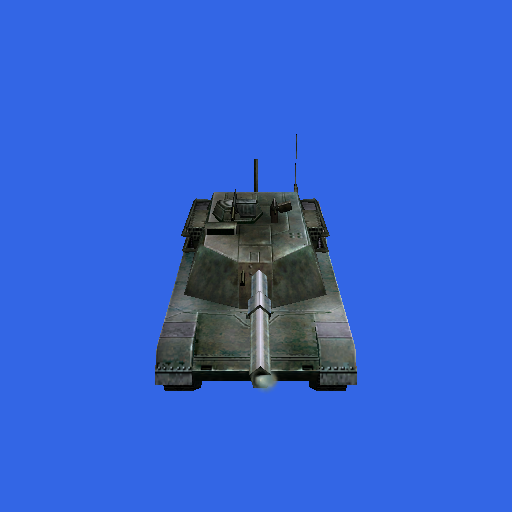
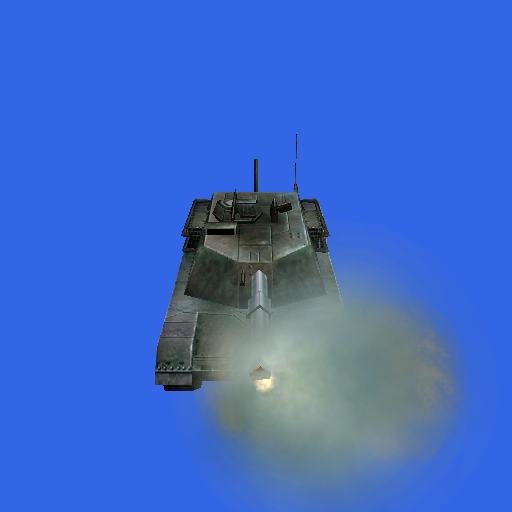
fix: apply tank ForceScale in muzzle particle proof

Changed region(s): [[0.375, 0.5, 0.9375, 1.0]]

diff --git a/src/Panopticon.Tools.TestHarness/Ee2ParticleProofScenario.cs b/src/Panopticon.Tools.TestHarness/Ee2ParticleProofScenario.cs
@@ -47,6 +47,9 @@ internal static class Ee2ParticleProofScenario
     /// <summary>The muzzle proof model: a cooked unit model with a Muzzle node.</summary>
     public const string MuzzleModelKey = "lhm13_mainbattletank";
 
+    /// <summary>HeavyMounted1_13.ForceScale from db/Units/heavy_mounted1.ddf.</summary>
+    public const float MuzzleModelScale = 0.09f;
+
     /// <summary>Presentation-only yaw, matching the other EE2 model proofs.</summary>
     public const float CaptureYawRadians = -MathF.PI / 3f;
 
@@ -109,10 +112,16 @@ internal static class Ee2ParticleProofScenario
         return ParticleSystemUtility.ComputeDeterministicSeed("c4h-particle-proof:" + effectName, 0);
     }
 
-    internal static Matrix4x4 RemoveDuplicateAttachmentScale(Matrix4x4 emitterTransform, float worldScale)
+    internal static Matrix4x4 RemoveDuplicateAttachmentScale(Matrix4x4 emitterTransform, float attachmentScale)
     {
-        // Materialization already scales emitter motion; the resolver also prefixes that scale.
-        return emitterTransform * Matrix4x4.CreateScale(1f / worldScale);
+        // Particle sizes and motion already carry EffectScale. Remove inherited scale,
+        // retaining the follow matrix's scaled firing-tag position and bone-local offset.
+        return emitterTransform * Matrix4x4.CreateScale(1f / attachmentScale);
+    }
+
+    internal static Matrix4x4 GetMuzzleModelWorld()
+    {
+        return Matrix4x4.CreateScale(MuzzleModelScale) * Matrix4x4.CreateRotationZ(CaptureYawRadians);
     }
 
     /// <summary>Camera distance for the world-spawn effects; muzzle frames fit the tank bounds.</summary>
@@ -260,6 +269,9 @@ internal static class Ee2ParticleProofScenario
                 "follow-matrix overload; explosion and splash frames spawn at the world origin.",
                 "Tank muzzle source: heavy_mounted1.ddf HeavyMounted1_13.ChildNames references",
                 "Muzzle_FiringShell in visual_fx_weapon.ddf, using fx_muzzle_tank.nif at scale 0.09.",
+                "The tank uses HeavyMounted1_13.ForceScale 0.09, not raw NIF model size.",
+                "EffectScale and ForceScale are applied independently; follow transforms retain",
+                "the scaled tag position without rescaling materialized particle sizes or motion.",
                 "Frame 0000 is the first emitted burst (one 30 Hz tick), not an empty spawn; each",
                 "frame replays from t=0 under ParticleSystemUtility.BeginSeedScope seeded from the",
                 "effect key, so a second run must produce identical frames. No EE2 asset is copied",
@@ -326,7 +338,7 @@ internal static class Ee2ParticleProofScenario
 
         ModelInstance? muzzleInstance = null;
         NifParticleAttachmentPlan? muzzlePlan = null;
-        var modelWorld = Matrix4x4.CreateRotationZ(CaptureYawRadians);
+        var modelWorld = GetMuzzleModelWorld();
         var cameraTarget = Vector3.Zero;
         var cameraDistance = GetEffectCameraDistance(binding.EffectName);
 
@@ -386,7 +398,8 @@ internal static class Ee2ParticleProofScenario
                 {
                     var composed = new ComposedFollowSource();
                     created.Add(manager.Create(system.Template, composed.Bind(
-                        RemoveDuplicateAttachmentScale(system.EmitterTransform, binding.WorldScale), follow)));
+                        RemoveDuplicateAttachmentScale(
+                            system.EmitterTransform, binding.WorldScale * MuzzleModelScale), follow)));
                 }
                 else
                 {

diff --git a/test/Panopticon.Tools.ReplaySketch.Tests/Ee2ParticleProofScenarioTests.cs b/test/Panopticon.Tools.ReplaySketch.Tests/Ee2ParticleProofScenarioTests.cs
@@ -138,6 +138,26 @@ public sealed class Ee2ParticleProofScenarioTests
     }
 
     [Fact]
+    public void ModelForceScaleDoesNotRescaleMaterializedParticleMotion()
+    {
+        const float effectScale = 0.09f;
+        var modelScale = Ee2ParticleProofScenario.MuzzleModelScale;
+        var emitter = System.Numerics.Matrix4x4.CreateScale(effectScale);
+        var follow = System.Numerics.Matrix4x4.CreateScale(effectScale)
+            * System.Numerics.Matrix4x4.CreateTranslation(3, 0, 0)
+            * System.Numerics.Matrix4x4.CreateTranslation(48, 0, 0)
+            * System.Numerics.Matrix4x4.CreateScale(modelScale);
+        var composed = Ee2ParticleProofScenario.RemoveDuplicateAttachmentScale(
+            emitter, effectScale * modelScale) * follow;
+        Assert.True(MathF.Abs(composed.M11 - effectScale) < 0.00001f);
+        Assert.True(MathF.Abs(composed.Translation.X - 51f * modelScale) < 0.00001f);
+        Assert.True(System.Numerics.Matrix4x4.Decompose(
+            Ee2ParticleProofScenario.GetMuzzleModelWorld(), out var scale, out _, out _));
+        Assert.True(System.Numerics.Vector3.Distance(
+            scale, new System.Numerics.Vector3(modelScale)) < 0.00001f);
+    }
+
+    [Fact]
     public void ValidationGuideListsParticleCapturesAndSeedDeterminism()
     {
         var directory = Path.Combine(Path.GetTempPath(), "ee2-particle-guide-test");

diff --git a/test/Panopticon.Simulation.Tests/Content/Importing/Ee2ParticleEffectInventoryTests.cs b/test/Panopticon.Simulation.Tests/Content/Importing/Ee2ParticleEffectInventoryTests.cs
@@ -345,6 +345,7 @@ public sealed class Ee2ParticleEffectInventoryTests
         var end = units.IndexOf("UnitModel", start + "UnitModel".Length, StringComparison.Ordinal);
         var tank = end < 0 ? units[start..] : units[start..end];
         Assert.Contains("LHM13_MainBattleTank.NIF", tank);
+        Assert.Matches(@"ForceScale\s*=\s*0\.09\b", tank);
         Assert.Contains("Muzzle_FiringShell", tank);
 
         var weapons = ReadDdf("db/Visuals/visual_fx_weapon.ddf");

diff --git a/src/Panopticon.Tools.TestHarness/ee2-particle-proof/validation_guide.md b/src/Panopticon.Tools.TestHarness/ee2-particle-proof/validation_guide.md
@@ -10,6 +10,9 @@ the C4 model pipeline with the smoke following its tag_muzzle_1 firing tag via t
 follow-matrix overload; explosion and splash frames spawn at the world origin.
 Tank muzzle source: heavy_mounted1.ddf HeavyMounted1_13.ChildNames references
 Muzzle_FiringShell in visual_fx_weapon.ddf, using fx_muzzle_tank.nif at scale 0.09.
+The tank uses HeavyMounted1_13.ForceScale 0.09, not raw NIF model size.
+EffectScale and ForceScale are applied independently; follow transforms retain
+the scaled tag position without rescaling materialized particle sizes or motion.
 Frame 0000 is the first emitted burst (one 30 Hz tick), not an empty spawn; each
 frame replays from t=0 under ParticleSystemUtility.BeginSeedScope seeded from the
 effect key, so a second run must produce identical frames. No EE2 asset is copied

diff --git a/docs/screenshots.md b/docs/screenshots.md
@@ -44,6 +44,8 @@ bone attachment, and particle seed. Run this diagnostic from a separate working 
 to preserve the composited proofs. Compare matching muzzle frames to isolate barrel occlusion.
 `EE2_PARTICLE_PROOF_SIDE_VIEW=1` rotates the camera orbit 90 degrees for a side-angle reference.
 The muzzle binding uses the tank's `Muzzle_FiringShell` DDF entry at scale `0.09`.
+The tank uses `HeavyMounted1_13.ForceScale = 0.09`. The model and effect scales
+are independent; materialized particle motion does not inherit the model scale again.
 Capture timestamps are nonuniform. Reference GIF frame durations follow timestamp differences,
 with a final-frame pause. Filename order alone does not imply a constant frame rate.
 
